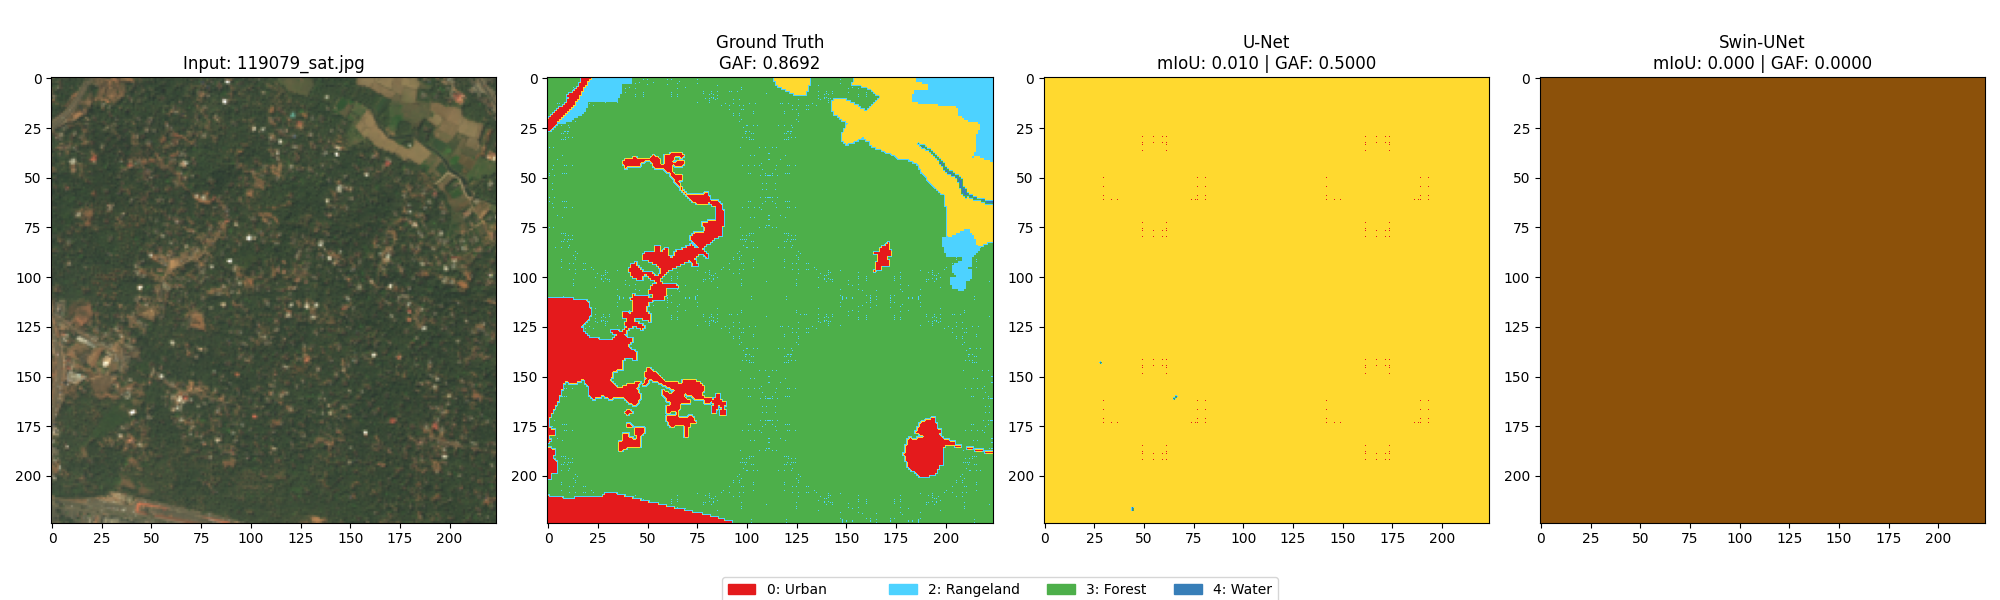
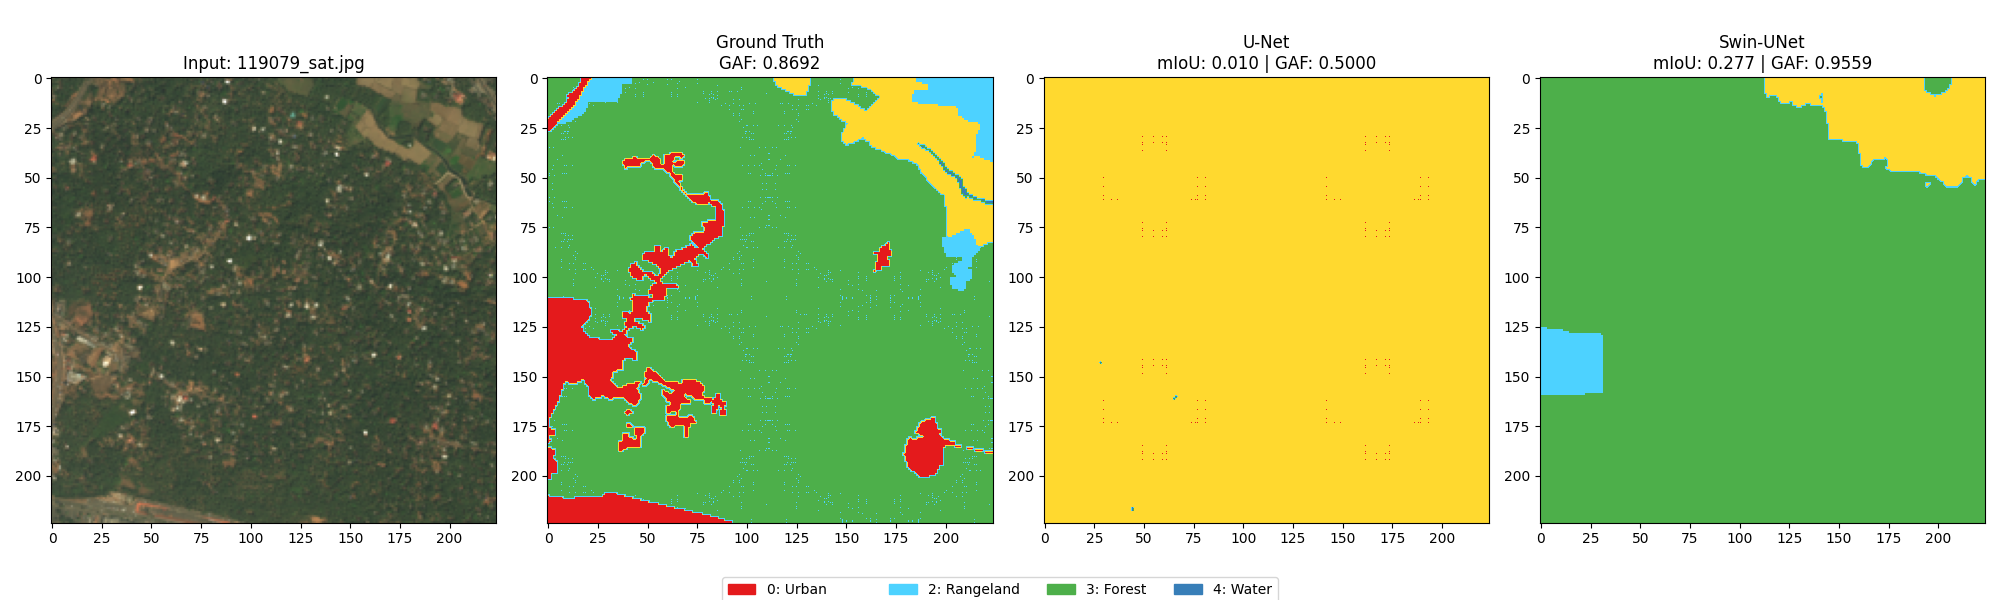
Updated visuals

Changed region(s): [[0.744, 0.09, 0.992, 0.87]]

diff --git a/train.py b/train.py
@@ -49,7 +49,7 @@ val_transform = A.Compose([
 # ---------------- TRAIN ----------------
 def run_train():
     if args.model == "swin":
-        model = SwinUNet(pretrained=True)
+        model = SwinUNet()
     else:
         model = UNet()
 
